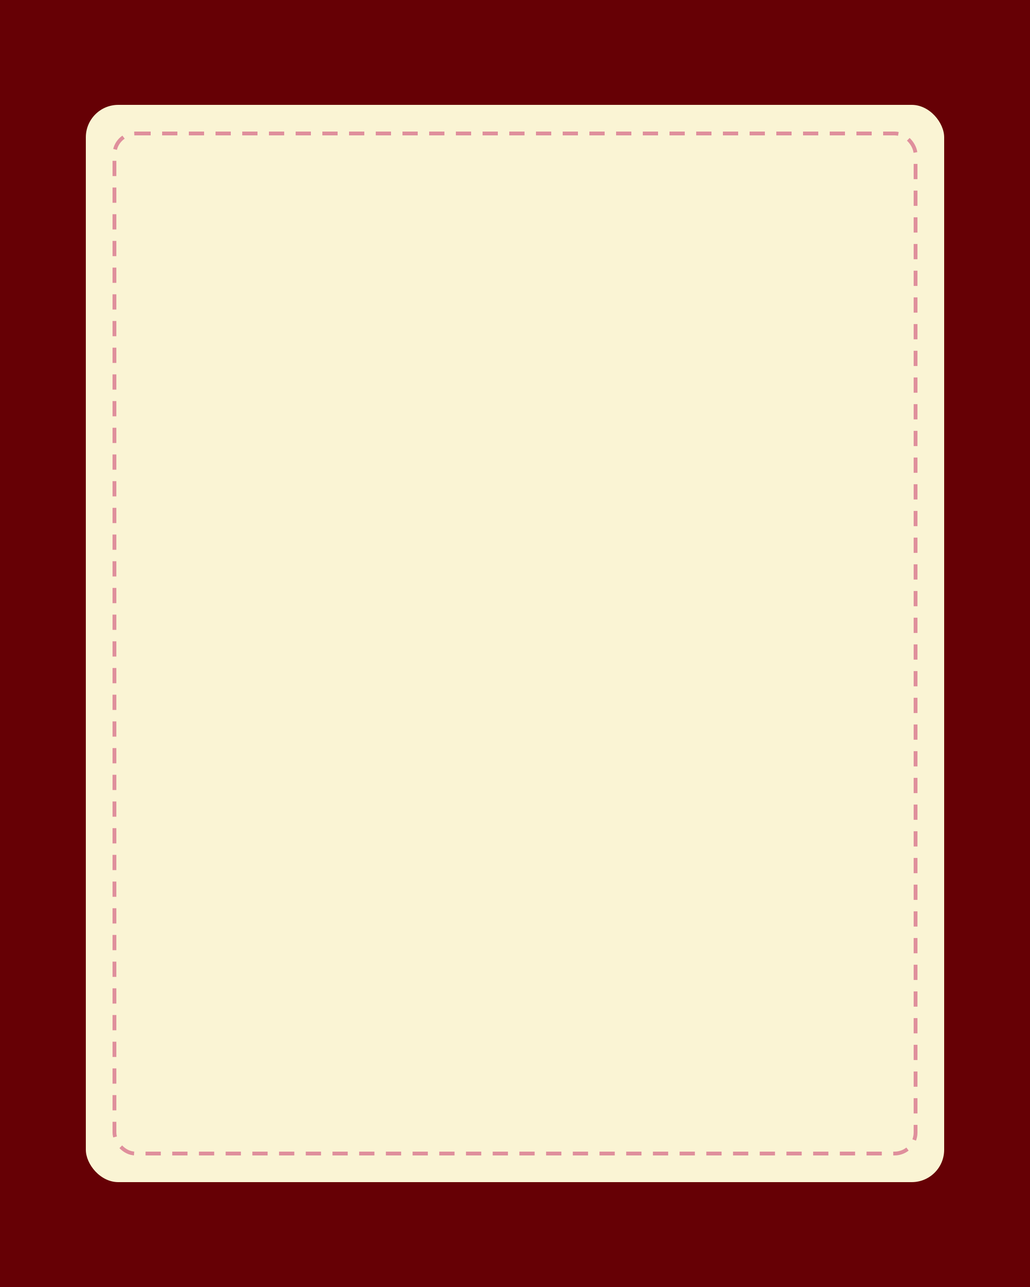
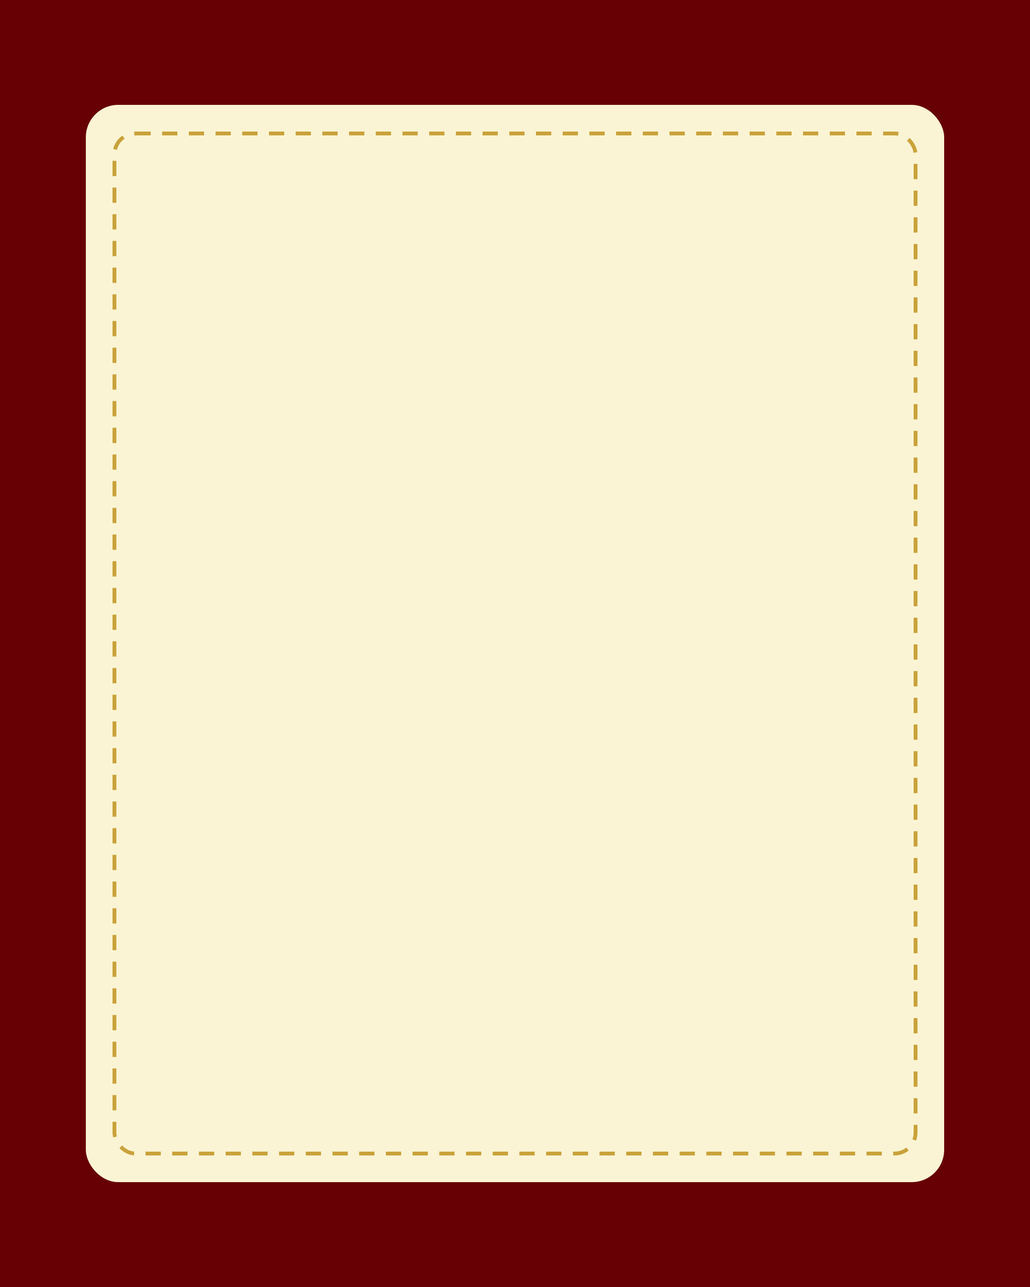
Pink rules (no pink backgrounds, golden highlights on yellow pages), gold assets, example carousels
Claude-Session: https://claude.ai/code/session_01PYAFn8ft4nKeCr1swPnjKW

diff --git a/tools/build_examples.py b/tools/build_examples.py
@@ -1,0 +1,191 @@
+"""Build 3 example WFCditasik carousels (3 slides each) from the brand kit."""
+import os, asyncio
+from playwright.async_api import async_playwright
+
+KIT = os.path.abspath(os.path.join(os.path.dirname(os.path.abspath(__file__)), ".."))
+OUT = os.path.join(KIT, "examples")
+U = f"file://{KIT}"
+
+CSS = f"""
+@font-face {{ font-family: 'IS'; src: url('{U}/fonts/InstrumentSerif-Regular.ttf'); }}
+@font-face {{ font-family: 'IS'; font-style: italic; src: url('{U}/fonts/InstrumentSerif-Italic.ttf'); }}
+@font-face {{ font-family: 'CP'; src: url('{U}/fonts/CourierPrime-Regular.ttf'); }}
+@font-face {{ font-family: 'CP'; font-weight: 700; src: url('{U}/fonts/CourierPrime-Bold.ttf'); }}
+@font-face {{ font-family: 'CV'; src: url('{U}/fonts/Caveat[wght].ttf'); font-weight: 400 700; }}
+:root {{ --red:#660005; --pink:#DF8F9C; --pinksoft:#F2C9CF; --rose:#A3404F; --yellow:#FAF4D4; --white:#FFFFFF; --gold:#EFC94C; --goldsoft:#F7E6A6; }}
+* {{ margin:0; padding:0; box-sizing:border-box; }}
+html, body {{ width:1080px; height:1350px; overflow:hidden; }}
+.slide {{ position:relative; width:1080px; height:1350px; background-size:cover; color:var(--red); }}
+.serif {{ font-family:'IS', serif; font-weight:400; line-height:1.12; letter-spacing:-0.5px; }}
+.serif i {{ font-style:italic; }}
+.mono {{ font-family:'CP', monospace; line-height:1.45; }}
+.hand {{ font-family:'CV', cursive; font-weight:500; line-height:1.1; }}
+.abs {{ position:absolute; }}
+/* marker: sits behind the lower part of the letters, one band per line */
+.mk {{ background:linear-gradient(to bottom, transparent 52%, var(--gold) 52%, var(--gold) 80%, transparent 80%);
+       -webkit-box-decoration-break:clone; box-decoration-break:clone; padding:0 8px; margin:0 -8px; }}
+.mk.soft {{ background:linear-gradient(to bottom, transparent 52%, var(--goldsoft) 52%, var(--goldsoft) 80%, transparent 80%); }}
+/* selected text with handles */
+.mk.pk {{ background:linear-gradient(to bottom, transparent 52%, var(--pink) 52%, var(--pink) 80%, transparent 80%); }}
+.sel.pk {{ background:var(--pinksoft); }}
+.sel {{ position:relative; background:var(--goldsoft); padding:0 10px; margin:0 6px; }}
+.sel .h {{ position:absolute; top:0; bottom:0; width:5px; background:var(--red); }}
+.sel .h::after {{ content:''; position:absolute; left:-6.5px; width:18px; height:18px; border-radius:50%; background:var(--red); }}
+.sel .l {{ left:-3px; }} .sel .l::after {{ top:-14px; }}
+.sel .r {{ right:-3px; }} .sel .r::after {{ bottom:-14px; }}
+.card {{ position:absolute; background:var(--white); box-shadow:0 10px 24px rgba(43,10,12,.16); }}
+.page {{ position:absolute; right:90px; bottom:64px; font-family:'CP', monospace; font-size:22px; letter-spacing:2px; }}
+.handle {{ position:absolute; left:90px; bottom:64px; font-family:'CP', monospace; font-size:22px; letter-spacing:1px; }}
+img.st {{ position:absolute; }}
+.chip {{ background:var(--white); padding:6px 14px; bottom:58px; }}
+.handle.chip {{ left:84px; }} .page.chip {{ right:84px; }}
+"""
+
+
+def bg(name):
+    return f"background-image:url('{U}/backgrounds/png/{name}.png');"
+
+
+def st(path, x, y, w, rot=0, z=1):
+    return (f'<img class="st" src="{U}/{path}" style="left:{x}px; top:{y}px; width:{w}px; '
+            f'transform:rotate({rot}deg); z-index:{z};">')
+
+
+def foot(n, color="var(--red)", chip=False):
+    c = " chip" if chip else ""
+    return (f'<div class="handle{c}" style="color:{color}">@wfcditasik</div>'
+            f'<div class="page{c}" style="color:{color}">0{n} / 03</div>')
+
+
+SLIDES = {}
+
+# ---------------- A. Lifestyle: Minuman kamu = kerjaan kamu ----------------
+SLIDES["A-minuman-kerjaan"] = [
+    # A1 cover: diner checker, white card, tape, notification sticker
+    f"""<div class="slide" style="{bg('stripes-red')}">
+      <div class="card" style="left:90px; top:250px; width:820px; height:660px; transform:rotate(-2deg);"></div>
+      {st('paper/png/tape-kraft.png', 380, 205, 300, -4, 3)}
+      <div class="abs" style="left:150px; top:330px; width:720px; transform:rotate(-2deg); z-index:2;">
+        <div class="mono" style="font-size:26px; letter-spacing:3px; color:var(--red);">TES KEPRIBADIAN (NGGAK ILMIAH)</div>
+        <div class="serif" style="font-size:128px; margin-top:26px;">Minuman kamu<br>= <span class="mk pk"><i>kerjaan</i></span><br>kamu</div>
+      </div>
+      <div class="hand abs" style="left:520px; top:800px; font-size:50px; transform:rotate(-5deg); z-index:2; color:var(--red);">geser, terus ngaku →</div>
+      {st('ui-stickers/png/notification-pill.png', 390, 980, 580, 4, 4)}
+      {foot(1, chip=True)}
+    </div>""",
+    # A2 content: yellow, list with marker on drink names, reminders sticker
+    f"""<div class="slide" style="{bg('solid-cream')}">
+      <div class="serif abs" style="left:90px; top:150px; font-size:92px; width:900px;">Kamu tim <i>yang mana?</i></div>
+      {st('ui-stickers/png/reminders-card.png', 90, 1010, 190, -7, 2)}
+      <div class="abs" style="left:90px; top:370px; width:900px;">
+        <div class="serif" style="font-size:64px;"><span class="mk">Kopi susu</span></div>
+        <div class="mono" style="font-size:30px; margin:14px 0 54px;">= deadline jam 5 sore, baru mulai jam 4.</div>
+        <div class="serif" style="font-size:64px;"><span class="mk">Matcha latte</span></div>
+        <div class="mono" style="font-size:30px; margin:14px 0 54px;">= meeting yang harusnya cukup lewat email.</div>
+        <div class="serif" style="font-size:64px;"><span class="mk">Es teh manis</span></div>
+        <div class="mono" style="font-size:30px; margin-top:14px;">= "nanti aja deh" (padahal nggak nanti).</div>
+      </div>
+      <div class="hand abs" style="left:310px; top:1080px; font-size:48px; transform:rotate(-4deg); color:var(--red);">air putih = sudah tercerahkan</div>
+      {foot(2)}
+    </div>""",
+    # A3 CTA: solid red, white/yellow text, white scrap with tape
+    f"""<div class="slide" style="{bg('solid-red')}">
+      <div class="serif abs" style="left:90px; top:230px; width:920px; font-size:104px; color:var(--white);">Komen minuman<br>kamu, <i style="color:var(--yellow);">kita tebak</i><br>kerjaanmu.</div>
+      <div class="card" style="left:300px; top:790px; width:560px; height:230px; transform:rotate(3deg);"></div>
+      {st('paper/png/tape-kraft.png', 360, 760, 200, -8, 3)}
+      <div class="abs mono" style="left:340px; top:860px; width:500px; transform:rotate(3deg); font-size:40px; font-weight:700; z-index:2; text-align:center;">Follow @wfcditasik</div>
+      <div class="abs hand" style="left:340px; top:925px; width:500px; transform:rotate(3deg); font-size:40px; color:var(--red); z-index:2; text-align:center;">biar ada temen kerja</div>
+      {st('ui-stickers/png/cursor-arrow.png', 790, 940, 90, -10, 4)}
+      {foot(3, 'var(--yellow)')}
+    </div>""",
+]
+
+# ---------------- B. Skills & Tools: WFC tapi beneran kerja ----------------
+SLIDES["B-wfc-beneran-kerja"] = [
+    # B1 cover: white grid, selected-text highlight + copy bar sticker
+    f"""<div class="slide" style="{bg('grid-paper-white')}">
+      {st('ui-stickers/png/copy-select-bar.png', 60, 300, 420, 0, 3)}
+      <div class="serif abs" style="left:96px; top:420px; width:920px; font-size:150px;"><span class="sel pk"><span class="h l"></span><i>Beneran</i><span class="h r"></span></span> kerja,<br>bukan cuma WFC.</div>
+      <div class="hand abs" style="left:96px; top:850px; font-size:56px; transform:rotate(-3deg); color:var(--red);">(alias pindah tempat scroll)</div>
+      {st('ui-stickers/png/status-wifi-battery.png', 640, 1020, 340, 5, 2)}
+      {foot(1)}
+    </div>""",
+    # B2 content: pink stripes, lined note with 3 rules
+    f"""<div class="slide" style="{bg('grid-paper-cream')}">
+      {st('paper/png/note-lined.png', 70, 210, 940, 2, 1)}
+      {st('paper/png/tape-red.png', 420, 180, 240, -3, 3)}
+      <div class="abs" style="left:180px; top:300px; width:760px; transform:rotate(2deg); z-index:2;">
+        <div class="serif" style="font-size:76px;"><span class="mk">3 aturan</span> <i>kecil</i></div>
+        <div class="mono" style="font-size:32px; margin-top:34px;"><b>01</b>&nbsp; Tulis 1 target sebelum pesan minum.</div>
+        <div class="mono" style="font-size:32px; margin-top:24px;"><b>02</b>&nbsp; Cari colokan dulu, baru laptop.</div>
+        <div class="mono" style="font-size:32px; margin-top:24px;"><b>03</b>&nbsp; HP mode senyap 50 menit. Beneran.</div>
+      </div>
+      <div class="card" style="left:560px; top:930px; width:420px; height:150px; transform:rotate(-4deg);"></div>
+      <div class="hand abs" style="left:590px; top:965px; width:380px; font-size:48px; transform:rotate(-4deg); z-index:2;">kecil, tapi ngaruh</div>
+      {foot(2, chip=True)}
+    </div>""",
+    # B3 CTA: yellow, folder sticker, save prompt
+    f"""<div class="slide" style="{bg('solid-cream')}">
+      {st('ui-stickers/png/folder-gold.png', 600, 170, 370, 6, 2)}
+      <div class="hand abs" style="left:620px; top:520px; font-size:44px; transform:rotate(6deg); color:var(--red);">folder: niat 2026</div>
+      <div class="serif abs" style="left:90px; top:680px; width:900px; font-size:108px;">Simpan dulu,<br><span class="mk"><i>praktekkin</i></span> Kamis ini.</div>
+      <div class="mono abs" style="left:90px; top:1020px; width:820px; font-size:30px;">Tag partner WFC kamu &amp; follow @wfcditasik<br>buat kerja bareng tiap Kamis.</div>
+      {foot(3)}
+    </div>""",
+]
+
+# ---------------- C. Community: kerja sendiri vs kerja bareng ----------------
+SLIDES["C-sendiri-vs-bareng"] = [
+    # C1 cover: solid red, white text, weather widget
+    f"""<div class="slide" style="{bg('solid-red')}">
+      <div class="mono abs" style="left:90px; top:150px; font-size:26px; letter-spacing:3px; color:var(--yellow);">STUDI KASUS: KITA SEMUA</div>
+      <div class="serif abs" style="left:90px; top:250px; width:900px; font-size:140px; color:var(--white);">Kerja <i style="color:var(--yellow);">sendiri</i><br>vs kerja<br>bareng</div>
+      {st('ui-stickers/png/widget-weather-tasik.png', 560, 880, 420, -5, 2)}
+      <div class="hand abs" style="left:96px; top:960px; font-size:52px; transform:rotate(-4deg); color:var(--yellow);">spoiler: yang kedua.</div>
+      {foot(1, 'var(--yellow)')}
+    </div>""",
+    # C2 content: red checker, two white scraps
+    f"""<div class="slide" style="{bg('checker-red-cream')}">
+      <div class="card" style="left:90px; top:170px; width:640px; height:400px; transform:rotate(-3deg);"></div>
+      <div class="abs" style="left:140px; top:200px; width:560px; transform:rotate(-3deg); z-index:2;">
+        <div class="serif" style="font-size:74px;"><i>Sendiri</i></div>
+        <div class="mono" style="font-size:30px; margin-top:20px;">Fokus 20 menit.<br>Buka TikTok 40 menit.<br>Ulangi sampai maghrib.</div>
+      </div>
+      {st('paper/png/tape-kraft.png', 330, 120, 200, 4, 3)}
+      <div class="card" style="left:350px; top:690px; width:640px; height:400px; transform:rotate(2.5deg);"></div>
+      <div class="abs" style="left:400px; top:750px; width:560px; transform:rotate(2.5deg); z-index:2;">
+        <div class="serif" style="font-size:74px;"><span class="mk"><i>Bareng</i></span></div>
+        <div class="mono" style="font-size:30px; margin-top:20px;">Malu buka TikTok,<br>ada yang lihat.<br>Kerjaan beres. Wow.</div>
+      </div>
+      {st('paper/png/tape-red.png', 590, 670, 200, -5, 3)}
+      {foot(2, chip=True)}
+    </div>""",
+    # C3 CTA: white, Thursday invite with marker, polaroid-style card
+    f"""<div class="slide" style="{bg('solid-white')}">
+      <div class="serif abs" style="left:90px; top:200px; width:900px; font-size:116px;">Yuk WFC bareng,<br><span class="mk pk"><i>tiap Kamis.</i></span></div>
+      <div class="mono abs" style="left:90px; top:520px; width:620px; font-size:32px;">Bawa laptop, bawa kerjaan.<br>Teman kerjanya dari kami.</div>
+      <div class="abs" style="left:90px; top:760px; width:900px; height:420px; background:var(--red);"></div>
+      {st('ui-stickers/png/notification-pill.png', 380, 700, 580, -4, 2)}
+      {st('paper/png/tape-red.png', 120, 735, 220, -6, 3)}
+      <div class="mono abs" style="left:150px; top:950px; font-size:44px; font-weight:700; color:var(--white);">Follow @wfcditasik</div>
+      <div class="hand abs" style="left:156px; top:1020px; font-size:48px; transform:rotate(-2deg); color:var(--yellow);">biar nggak ketinggalan info</div>
+      {foot(3)}
+    </div>""",
+]
+
+
+async def main():
+    async with async_playwright() as p:
+        b = await p.chromium.launch()
+        pg = await b.new_page(viewport={"width": 1080, "height": 1350})
+        for name, slides in SLIDES.items():
+            d = os.path.join(OUT, name); os.makedirs(d, exist_ok=True)
+            for i, body in enumerate(slides, 1):
+                html = f"<!doctype html><html><head><meta charset='utf-8'><style>{CSS}</style></head><body>{body}</body></html>"
+                f = os.path.join(d, f"slide-0{i}.html"); open(f, "w").write(html)
+                await pg.goto(f"file://{f}"); await pg.evaluate("document.fonts.ready")
+                await pg.wait_for_timeout(150)
+                await pg.screenshot(path=os.path.join(d, f"slide-0{i}.png"))
+        await b.close()
+
+asyncio.run(main())

diff --git a/tools/build_assets.py b/tools/build_assets.py
@@ -7,6 +7,9 @@ MAROON = "#660005"
 MAROON_DK = "#3F0003"
 PINK = "#DF8F9C"
 PINK_SOFT = "#F2C9CF"
+GOLD = "#EFC94C"
+GOLD_SOFT = "#F7E6A6"
+GOLD_DK = "#C9A23A"
 ROSE = "#A3404F"
 CREAM = "#FAF4D4"
 PAPER = "#FFFFFF"
@@ -86,18 +89,17 @@ def dashed_frame(bg, card, dash):
 
 
 save("backgrounds/svg/grid-paper-cream.svg", grid_paper())
-save("backgrounds/svg/grid-paper-white.svg", grid_paper("#FFFFFF", "#F1DADD"))
+save("backgrounds/svg/grid-paper-white.svg", grid_paper("#FFFFFF", "#ECE4DA"))
 save("backgrounds/svg/solid-white.svg", solid("#FFFFFF"))
-save("backgrounds/svg/checker-pink-white.svg", checker("#FFFFFF", PINK))
-save("backgrounds/svg/checker-pink-cream.svg", checker(CREAM, PINK))
+save("backgrounds/svg/checker-red-white.svg", checker("#FFFFFF", MAROON))
 save("backgrounds/svg/checker-red-cream.svg", checker(CREAM, MAROON))
-save("backgrounds/svg/stripes-pink.svg", stripes(CREAM, PINK))
+save("backgrounds/svg/stripes-gold.svg", stripes(CREAM, GOLD))
 save("backgrounds/svg/stripes-red.svg", stripes(CREAM, MAROON, 26))
 save("backgrounds/svg/solid-red.svg", solid(MAROON))
 save("backgrounds/svg/solid-cream.svg", solid(CREAM))
-save("backgrounds/svg/dashed-card-on-pink.svg",
-     dashed_frame(PINK_SOFT, PAPER, MAROON))
-save("backgrounds/svg/dashed-card-on-red.svg", dashed_frame(MAROON, CREAM, PINK))
+save("backgrounds/svg/dashed-card-on-yellow.svg",
+     dashed_frame(CREAM, PAPER, MAROON))
+save("backgrounds/svg/dashed-card-on-red.svg", dashed_frame(MAROON, CREAM, GOLD_DK))
 
 # ---------------- UI STICKERS ----------------
 
@@ -140,10 +142,10 @@ save("ui-stickers/svg/notification-pill.svg", sticker(pw, ph, {"outline": outlin
 fw, fh = 240, 180
 folder_path = f"M0 30 Q0 14 16 14 H86 Q96 14 102 24 L110 36 H{fw-16} Q{fw} 36 {fw} 52 V{fh-16} Q{fw} {fh} {fw-16} {fh} H16 Q0 {fh} 0 {fh-16}Z"
 outline = f'<path d="{folder_path}"/>'
-art = (f'<path d="{folder_path}" fill="{ROSE}"/>'
-       f'<rect x="0" y="56" width="{fw}" height="{fh-56}" rx="16" fill="{PINK}"/>'
-       f'<rect x="0" y="56" width="{fw}" height="10" fill="{PINK_SOFT}" opacity="0.6"/>')
-save("ui-stickers/svg/folder-pink.svg", sticker(fw, fh, {"outline": outline, "art": art}))
+art = (f'<path d="{folder_path}" fill="{GOLD_DK}"/>'
+       f'<rect x="0" y="56" width="{fw}" height="{fh-56}" rx="16" fill="{GOLD}"/>'
+       f'<rect x="0" y="56" width="{fw}" height="10" fill="{GOLD_SOFT}" opacity="0.7"/>')
+save("ui-stickers/svg/folder-gold.svg", sticker(fw, fh, {"outline": outline, "art": art}))
 
 # 5. Weather-style widget, Tasik version
 ww, wh = 360, 190
@@ -202,6 +204,7 @@ def tape(color, name):
 
 
 tape(PINK, "pink")
+tape(GOLD, "gold")
 tape(MAROON, "red")
 tape("#E8DCC6", "kraft")
 
@@ -235,11 +238,12 @@ def tspans(parts):
     return "".join(f'<tspan font-style="italic">{t}</tspan>' if it else t for t, it in parts)
 
 
-def marker_line(x, base, parts, size=96, pad=8):
+def marker_line(x, base, parts, size=96, pad=8, color=None):
+    color = color or GOLD
     """Marker band: from ~x-height middle to just under baseline. Never reaches other lines."""
     w = tw(parts)
     top, h = base - size * 0.30, size * 0.36
-    return (f'<rect x="{x-pad}" y="{top:.1f}" width="{w+pad*2:.1f}" height="{h:.1f}" rx="3" fill="{PINK}"/>'
+    return (f'<rect x="{x-pad}" y="{top:.1f}" width="{w+pad*2:.1f}" height="{h:.1f}" rx="3" fill="{color}"/>'
             f'<text x="{x}" y="{base}" font-family="{SERIF}" font-size="{size}" fill="{MAROON}">{tspans(parts)}</text>')
 
 
@@ -257,14 +261,18 @@ def selected_line(x, base, parts, size=96, pad=10):
 
 
 def highlight_demo():
-    body = f'<rect width="{W}" height="760" fill="{PAPER}"/>'
-    body += f'<text x="80" y="90" font-family="{MONO}" font-size="26" fill="{ROSE}">A. marker: lower band only, one band per line</text>'
-    body += marker_line(80, 220, [("kerja dari ", 0), ("kafe", 1)])
-    body += marker_line(80, 330, [("bukan kabur", 0)])
-    body += f'<text x="80" y="470" font-family="{MONO}" font-size="26" fill="{ROSE}">B. selected text: signature, one phrase per slide</text>'
-    body += f'<text x="80" y="620" font-family="{SERIF}" font-size="96" fill="{MAROON}">jadi</text>'
-    body += selected_line(80 + REG.getlength("jadi ") + 22, 620, [("produktif", 0), ("-ish", 1)])
-    return svg(W, 760, body)
+    H2 = 1120
+    body = f'<rect width="{W}" height="400" fill="{CREAM}"/><rect y="400" width="{W}" height="{H2-400}" fill="{PAPER}"/>'
+    body += f'<text x="80" y="80" font-family="{MONO}" font-size="24" fill="{MAROON}">A. YELLOW pages: golden marker (never pink)</text>'
+    body += marker_line(80, 210, [("kerja dari ", 0), ("kafe", 1)])
+    body += marker_line(80, 320, [("bukan kabur", 0)])
+    body += f'<text x="80" y="480" font-family="{MONO}" font-size="24" fill="{MAROON}">B. WHITE or RED pages: pink marker allowed</text>'
+    body += marker_line(80, 610, [("tiap ", 0), ("Kamis", 1)], color=PINK)
+    body += f'<text x="80" y="760" font-family="{MONO}" font-size="24" fill="{MAROON}">C. selected text: max once per carousel</text>'
+    body += f'<text x="80" y="910" font-family="{SERIF}" font-size="96" fill="{MAROON}">jadi</text>'
+    body += selected_line(80 + REG.getlength("jadi ") + 22, 910, [("produktif", 0), ("-ish", 1)])
+    body += f'<text x="80" y="1060" font-family="{MONO}" font-size="22" fill="{MAROON}">pink-soft on white pages, gold-soft on yellow pages</text>'
+    return svg(W, H2, body)
 
 
 save("highlights/svg/highlight-styles.svg", highlight_demo(), 1)

diff --git a/style-guide.md b/style-guide.md
@@ -4,22 +4,30 @@ The look: **a café worker's scrapbook.** Real photos, paper, tape, phone-screen
 
 ## Colors
 
-Palette: **Blood Red, Ruddy Pink, Light Goldenrod Yellow, White** (cherry pie on a white diner plate).
+Palette: **Blood Red, Light Goldenrod Yellow, White**, with **Golden** for highlights and **Ruddy Pink** as a small accent only. Cute, but not too feminine.
 
 | Name | Hex | Use |
 |---|---|---|
 | Blood Red | `#660005` | Main text, handles, full-color statement slides |
-| Red dark | `#3F0003` | Text on pink backgrounds, rare deep accents |
-| Ruddy Pink | `#DF8F9C` | Marker highlight, checker, stripes, tape |
-| Pink soft | `#F2C9CF` | Selected-text highlight, soft backgrounds |
-| Rose | `#A3404F` | Small labels, widgets, accents |
 | Light Goldenrod Yellow | `#FAF4D4` | Base background |
 | White | `#FFFFFF` | Cards, notes, polaroids, sticker outlines, white backgrounds |
+| Golden | `#EFC94C` | Marker highlight on yellow pages, gold stripes, folder, tape |
+| Gold soft | `#F7E6A6` | Selected-text highlight on yellow pages |
+| Ruddy Pink | `#DF8F9C` | Small accent only: marker on white/red pages, tape, tiny details |
+| Pink soft | `#F2C9CF` | Selected-text highlight on white pages |
+| Rose | `#A3404F` | Small widget details |
 | Ink | `#2B0A0C` | Cursor, rare dark details |
 
-Contrast with Blood Red text: on white 13.6:1, on yellow 12.1:1, on pink soft 9.0:1, on Ruddy Pink 5.5:1 (all readable).
+Contrast with Blood Red text: on white 13.6:1, on yellow 12.1:1, on pink soft 9.0:1, on Ruddy Pink 5.5:1, on Golden 7+:1 (all readable).
 
-Rule: Blood Red text on yellow or white. Never Blood Red text directly on a checker or stripes; put it on a paper scrap first. On a solid Blood Red slide, use white, yellow or pink soft text.
+### Pink rules (not too feminine)
+1. **Pink is never a background.** No pink checker, pink stripes, pink cards or big pink blocks.
+2. **Pink and yellow are never both dominant on one page.** If a page has both, one of them is only a tiny accent.
+3. **Yellow pages:** highlights are golden, never pink. Pink can only appear as a tiny detail.
+4. **White or red pages:** the pink marker or pink-soft selected text is allowed (that is the "cute" touch).
+5. Handwritten notes are Blood Red (or white/yellow on red slides), never pink.
+
+Text rule: Blood Red text on yellow or white. Never Blood Red text directly on a checker or stripes; put it on a white paper scrap first. On a solid Blood Red slide, use white or yellow text.
 
 ## Fonts (in `/fonts`, all free, OFL license)
 
@@ -29,17 +37,17 @@ Rule: Blood Red text on yellow or white. Never Blood Red text directly on a chec
 
 ## Highlights (the readability rules)
 
-Two styles only. See `highlights/png/highlight-styles.png`.
+Two styles only. See `highlights/png/highlight-styles.png`. The color depends on the page (see Pink rules).
 
 **A. Marker (default)**
-- Ruddy Pink band behind the text, never on top of it (text layer above the band).
+- Golden band on yellow pages, Ruddy Pink band on white or red pages. Always behind the text, never on top of it.
 - Band covers only the lower part of the letters: top at about 30% of font size above the baseline, height about 36% of font size.
 - One band per line. If a phrase wraps, each line gets its own band, the width of that line only.
 - Side padding 6 to 10 px. The band never extends past the last letter.
 - Line spacing at least 1.15 so bands never touch the line above or below.
 
 **B. Selected text (signature, max once per carousel)**
-- Pink-soft block from cap height to just under the descenders.
+- Pink-soft block on white pages, gold-soft on yellow pages, from cap height to just under the descenders.
 - Blood Red handles: left handle dot on top, right handle dot on the bottom (`ui-stickers/selection-handle-*`).
 - Only for one short phrase (1 to 3 words) on a single line. Never on wrapped text.
 - Leave a clear gap between the left handle and the word before it.
@@ -49,12 +57,12 @@ Two styles only. See `highlights/png/highlight-styles.png`.
 ## Backgrounds (`/backgrounds`, 1080 × 1350)
 
 Rotate, never the same background twice in a row:
-grid paper (yellow or white) · solid white · pink/white checker (diner tablecloth) · pink/yellow checker · red checker · pink stripes · red stripes · solid yellow · solid red (one big statement) · dashed card on red/pink (for quotes) · your own photo.
+grid paper (yellow or white) · solid white · solid yellow · solid red (one big statement) · red/yellow checker · red/white checker · red stripes · gold stripes · dashed card on red or yellow (for quotes) · your own photo. No pink backgrounds.
 
 ## Stickers and paper
 
-- `ui-stickers/`: copy bar, selection handles, notification pill, folder, Tasik weather widget, reminders card, wifi pill, cursor, polaroid frame.
-- `paper/`: washi tape (pink, red, kraft), lined note, torn strip.
+- `ui-stickers/`: copy bar, selection handles, notification pill, gold folder, Tasik weather widget, reminders card, wifi pill, cursor, polaroid frame.
+- `paper/`: washi tape (kraft, red, gold, pink for tiny accents), lined note, torn strip.
 - `photo-stickers/`: your own cut-out photos from WFC sessions (kopi, laptop, notebook, charger). This is what makes the feed feel local.
 - Max 3 to 4 stickers per slide. Overlap edges a little, tilt between -8° and 8°.
 
@@ -66,6 +74,10 @@ grid paper (yellow or white) · solid white · pink/white checker (diner tablecl
 4. Cover: big serif title plus 2 to 3 stickers scattered around it.
 5. Last slide: a CTA on paper ("simpan buat sesi WFC berikutnya", "tag temen kerjamu").
 6. Text keeps a 90 px safe margin from all edges.
+
+## Reference examples
+
+See `examples/*-preview.png`. These show the right balance: Blood Red + yellow lead, golden markers on yellow pages, pink only as a highlight on white pages ("Beneran", "kerjaan", "tiap Kamis").
 
 ## Tone
 

diff --git a/README.md b/README.md
@@ -5,11 +5,13 @@ Assets and rules for the WFCditasik weekly Instagram carousel.
 - `style-guide.md`: colors, fonts, highlight rules, layout rules. **Start here.**
 - `fonts/`: Instrument Serif, Courier Prime, Caveat (free, OFL)
 - `backgrounds/`: 1080 × 1350 backgrounds (SVG + PNG)
-- `ui-stickers/`: original phone/laptop UI stickers in Blood Red, Ruddy Pink, Light Goldenrod Yellow and White
+- `ui-stickers/`: original phone/laptop UI stickers in Blood Red, yellow, white and golden (pink only as a small accent)
 - `paper/`: washi tape, notes, torn paper
 - `highlights/`: reference render of the two highlight styles
 - `photo-stickers/`: your own cut-out photos from WFC sessions
+- `examples/`: 3 approved-style example carousels (reference for every new carousel)
 - `preview-*.png`: quick look at everything
 - `tools/build_assets.py`: regenerates all SVG/PNG assets
+- `tools/build_examples.py`: renders the example carousels from HTML (Playwright)
 
 Use the PNG versions in Canva. Use SVG when you need to resize or recolor.
